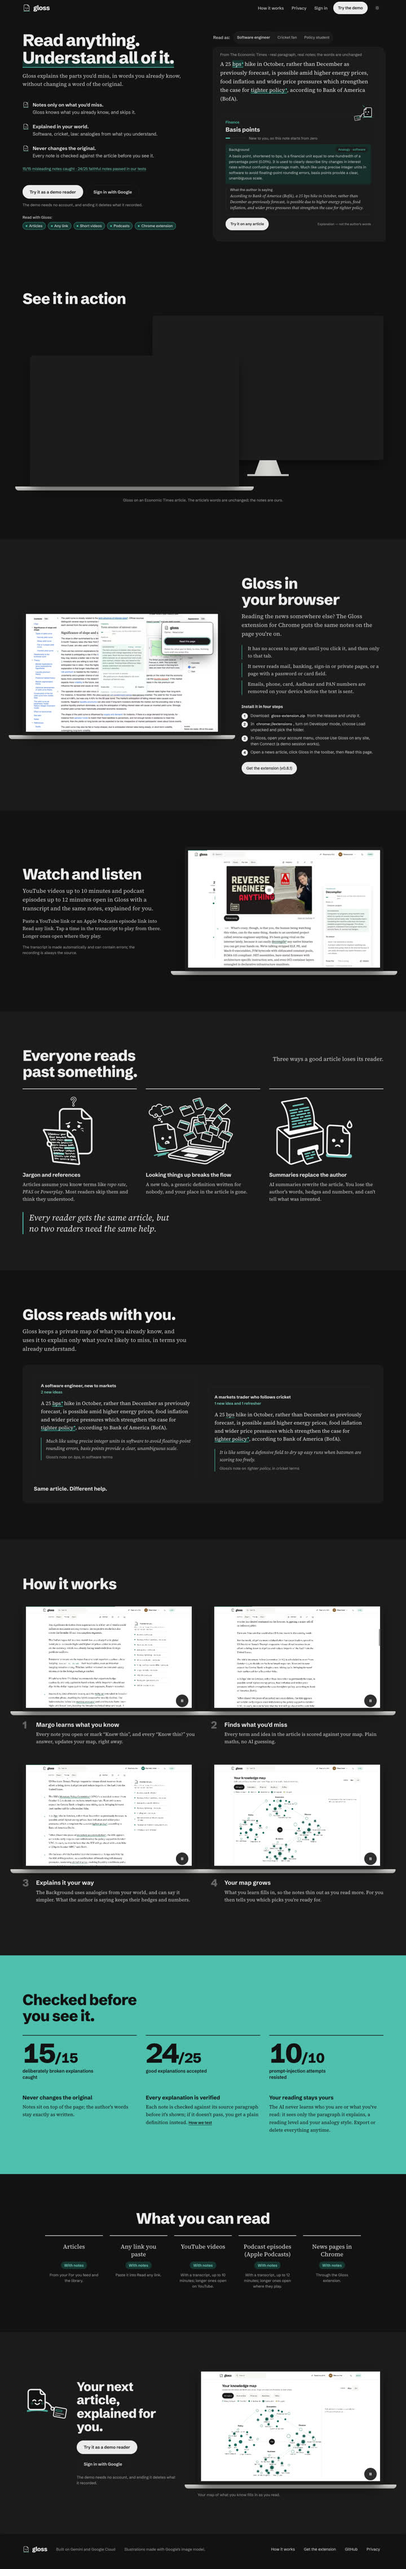
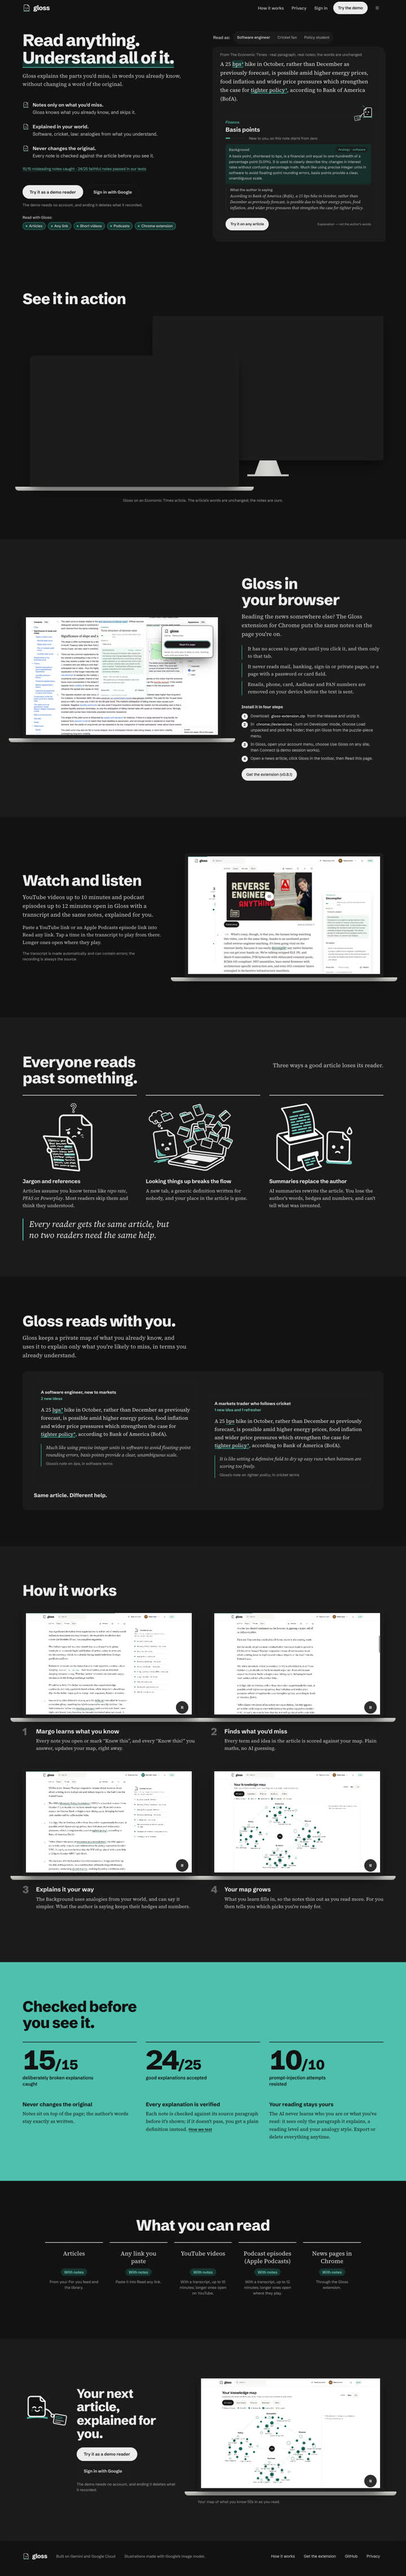
landing refresh: review round 1 fixes
STATUS §5 bundle and new risks, §7 capture cost, §9 README line; install step pins the
extension; popup overlay hidden below 768; dead branch removed. Harness re-run: all pass.

diff --git a/apps/web/src/landing/Extension.tsx b/apps/web/src/landing/Extension.tsx
@@ -30,7 +30,7 @@ export function GlossInBrowser() {
             Download <code>gloss-extension.zip</code> from the release and unzip it.
           </li>
           <li>
-            In <code>chrome://extensions</code>, turn on Developer mode, choose Load unpacked and pick the folder.
+            In <code>chrome://extensions</code>, turn on Developer mode, choose Load unpacked and pick the folder; then pin Gloss from the puzzle-piece menu.
           </li>
           <li>In Gloss, open your account menu, choose Use Gloss on any site, then Connect (a demo session works).</li>
           <li>Open a news article, click Gloss in the toolbar, then Read this page.</li>

diff --git a/apps/web/src/landing/landing.css b/apps/web/src/landing/landing.css
@@ -494,8 +494,10 @@
   min-height: 44px;
   margin-top: var(--s6);
 }
-/* The popup drops from the window's top right, as it does from Chrome's toolbar. */
+/* The popup drops from the window's top right, as it does from Chrome's toolbar; below 768 it
+   would be too small to read, so only the window shows there. */
 .lp-ext__popup {
+  display: none;
   position: absolute;
   z-index: 1;
   top: 9%;
@@ -640,6 +642,9 @@
 }
 
 @media (min-width: 768px) {
+  .lp-ext__popup {
+    display: block;
+  }
   .lp-problem__list {
     grid-template-columns: repeat(3, minmax(0, 1fr));
     gap: var(--s8);

diff --git a/apps/web/src/pages/LandingPage.tsx b/apps/web/src/pages/LandingPage.tsx
@@ -353,9 +353,7 @@ function Formats() {
         {FORMATS.map((f) => (
           <li key={f.what} className="lp-formats__item">
             <span className="lp-formats__what">{f.what}</span>
-            <span className={`lp-formats__how${f.notes ? " lp-formats__how--notes" : ""}`}>
-              {f.notes ? "With notes" : "No notes"}
-            </span>
+            <span className="lp-formats__how lp-formats__how--notes">With notes</span>
             <span className="lp-formats__detail">{f.detail}</span>
           </li>
         ))}

diff --git a/apps/web/src/landing/formatsFull.ts b/apps/web/src/landing/formatsFull.ts
@@ -3,6 +3,7 @@
  * copy quotes. Since decision 54 short videos and podcasts open in Gloss with notes; longer ones
  * open where they play. The caps equal production's MEDIA_MAX_VIDEO_S / MEDIA_MAX_AUDIO_S (a
  * vitest reads `apps/api/deploy.env.yaml`). The hero's chips are `formats.ts`, kept in step.
+ * Every entry gets notes (a vitest checks), so the list shows "With notes" on each.
  */
 export const VIDEO_CAP_MIN = 10;
 export const PODCAST_CAP_MIN = 12;

diff --git a/docs/STATUS.md b/docs/STATUS.md
@@ -290,7 +290,10 @@ and `select_corpus()` now also drops `user_ingested` docs even if a URL is liste
 | Low | The English-only filter checks script, not language: a Hinglish title in Latin script passes ("Health Insurance Claim Ka 10% Ab Aapko Dena Hoga?") |
 | Low | Learning-goal resolution takes 8–19 s on the harness (embedding + link_confirm); the form says it is looking the idea up |
 | Low | `rec_shown` relies on IntersectionObserver, which browsers pause in background tabs (seen in automated testing; real readers have the tab in front) |
-| Low | Web main bundle **148.43 KB** gzip after Wide layout (budget 150 KB; 1.6 KB left); For you, Saved, Profile, the week panel (1.68 KB) and the reading spine (1.05 KB) are lazy chunks; the Cytoscape + dagre chunk is gone (the map is SVG) |
+| Low | Web main bundle **149.88 KB** gzip after the landing refresh (budget 150 KB; **≈ 0.12 KB left**: decision 62's link and extension-base changes must measure main against the gate, and any further reader change must be lazy); For you, Saved, Profile, the week panel (1.68 KB) and the reading spine (1.05 KB) are lazy chunks; the Cytoscape + dagre chunk is gone (the map is SVG) |
+| Medium | Landing refresh (decision 61): "Get the extension (v0.8.1)" and the footer link go to GitHub Releases, which 404 for everyone but Sourabh until the repo is public (Oct 17, after gitleaks), like the other GitHub links. Next: Make the repo public on Oct 17; check both links live afterwards |
+| Medium | The landing pins `releases/tag/extension-v0.8.1` (`landing/links.ts`, the render test, the button's "v0.8.1", DESIGN §20.2). If decision 62 ships extension 0.8.2 (new web base), all four must move, or the landing advertises a build with the old address. Next: Part of the decision 62 plan |
+| Low | The landing's feed still is not re-shot after the Oct 16 persona re-seed (plan R6), so its readiness lines may differ from the live demo feed. Next: Accepted (freeze); re-shoot only if a line becomes wrong |
 | Low | Emulator only: a brand-new reader's first page fires several requests at once and each runs the `ensure_user` create-if-missing transaction; with four at once the Firestore emulator made them queue (≈ 20 s, "Failed to commit transaction in 5 attempts" in the log, all still 200). The library now asks for the week map after its first answer, which restored the earlier behaviour; a per-uid single-flight in `app/auth.py` would remove the race for every page (M9 candidate). No production occurrence seen |
 | Low | The weekly trend is per uid, so a demo session's trend mixes the personas it read as (the page says "this demo session") |
 | Low | Calibration picks the most frequent concepts per domain, which occasionally surfaces a term like "Expiry days"; fine for a quick check, revisit after the hackathon |
@@ -455,6 +458,10 @@ plus a handful of explanations (≈ $0.01 in all).
 `landing-art-v1`, 5 images, **$0.34** (Sourabh approved up to 6 images / $0.60); two 429s,
 unbilled. Details in DESIGN §20.1.
 
+**Landing refresh captures (2026-10-14, decision 61):** 1 explanation generated in production
+(the newcomer's "Term structure of interest rates" note on Wikipedia's Yield curve, ≈ $0.005);
+3 demo readers, all deleted; 0 searches (STATUS §30).
+
 **M9 part 1 (2026-10-14):** emulator harness, real Vertex: $0.0072 (service-level run) and $0.0138 (through the routes), emulator ledgers only. Expected live: ≤ $0.05 for Sourabh's four extension pages (`growth_backlog --dry-run`: ≤ 17 slots).
 **M9 part 2 (2026-10-14):** real Vertex, production spend ledger: merge replay $0.0032 (61 pairs) and prereq replay $0.0198; emulator ledger: synonym harness $0.0124. About **$0.035** in all.
 
@@ -539,7 +546,7 @@ BUILD_PLAN.md has the prompts. M6, M7 and M2.2 are merged and live.
 | Oct 15 | **M9.** Part 1 merged #34 and live (§26). Part 2 merged #35 and live (API 00029, §27); Sourabh audits the 30 precision verdicts (`apps/api/evals/heldout_report.md`, row 12 Pregabalin especially). Part 3 (ops evals, hardening, dashboard) built Oct 14 (§28): milestone-reviewer, PR, merge (docs and scripts only, no deploy) |
 | Oct 15 | **Readiness on For you** (decision 60): **done Oct 14** (merged #37, live, §29). **Landing refresh** (decision 61, plan `docs/plans/landing-refresh.md`): **built Oct 14**, all checks pass (§30); review, PR and web deploy next. **Decision 62** (a "gloss" web address): plan and build Oct 15. **Checkpoint: not merged by end of Oct 15 IST → ask Sourabh what to cut (decision 27)**; nothing slips into Oct 16 seeding |
 | Done Oct 12 | `m8-resume` fast-forwarded to main (it was an ancestor); the wip 2f037a1 carried over by hand (§22) |
-| Oct 16 | Code freeze; demo seeding (re-seed persona templates, pre-ingest demo articles, **re-run `seed_demo_feed`** so the demo feed isn't dated "10 Oct" during judging, **`warm_demo --shifts`** after a dry run: ≤ 48 ±1-band Backgrounds, ≈ $0.20, so "Say it simpler" is warm in the video), README refresh and new screenshots, video, deck. **From readiness (decision 60):** after the persona re-seed, re-run `scripts/readiness_mix.py` (stop rule: one level on ≥ 80% of the newcomer's rows → tell Sourabh, no retuning), and read the newcomer's and trader's stretch lines before the video (one now says "read up on Economic stocks and flows" for a stock-market video, from "stocks" linked to Stock variable): add a plainly wrong edge to the known-wrong prerequisites or keep that row out of the shot. **From M9 part 2:** don't use the BBC PFAS article (`cq8r6nzp4230o`) as the demo article (its stored concepts keep the Forever chemicals / PFAS duplicate); the deck carries the frozen-graph line (64% / 13% vs 89% / 66%) and the three precision numbers (87%, 97%, 90%). **From M9 part 3:** the deck labels 87 / 97 / 90 as judged by the build agent (and whether Sourabh's audit is done); the README already carries the measured request p95 (478 ms, Oct 8–14), cost and spend from `evals/ops_report.md`; refresh them if the report is re-run |
+| Oct 16 | Code freeze; demo seeding (re-seed persona templates, pre-ingest demo articles, **re-run `seed_demo_feed`** so the demo feed isn't dated "10 Oct" during judging, **`warm_demo --shifts`** after a dry run: ≤ 48 ±1-band Backgrounds, ≈ $0.20, so "Say it simpler" is warm in the video), README refresh and new screenshots (**fix README's "Videos and podcasts appear today as recommendations only; annotating them is outside the hackathon scope"**, which the landing now contradicts, and **bring the README's extension install steps in line with the landing's**), video, deck. **From readiness (decision 60):** after the persona re-seed, re-run `scripts/readiness_mix.py` (stop rule: one level on ≥ 80% of the newcomer's rows → tell Sourabh, no retuning), and read the newcomer's and trader's stretch lines before the video (one now says "read up on Economic stocks and flows" for a stock-market video, from "stocks" linked to Stock variable): add a plainly wrong edge to the known-wrong prerequisites or keep that row out of the shot. **From M9 part 2:** don't use the BBC PFAS article (`cq8r6nzp4230o`) as the demo article (its stored concepts keep the Forever chemicals / PFAS duplicate); the deck carries the frozen-graph line (64% / 13% vs 89% / 66%) and the three precision numbers (87%, 97%, 90%). **From M9 part 3:** the deck labels 87 / 97 / 90 as judged by the build agent (and whether Sourabh's audit is done); the README already carries the measured request p95 (478 ms, Oct 8–14), cost and spend from `evals/ops_report.md`; refresh them if the report is re-run |
 | **Oct 17** | **Submit** (deadline Oct 18): run a gitleaks scan over the full history, then make the GitHub repo public (decision 44; the landing links to it) |
 
 **Video line:** sign in as a demo persona → library → open an article → hover and open notes →
@@ -1209,4 +1216,5 @@ Plan `docs/plans/landing-refresh.md` (plan-reviewer REVISE 8 → APPROVE). Branc
 | Harness `tools/shots/landing_refresh.py` (local previews, before = `main`) | axe **0 at every impact level** and horizontal scroll **0** at 320, 390, 768, 1024, 1440, 1920, light and dark, every still loaded; headings in order; every image described; the new stills not fetched before scroll; first view at 1440×900 changed only inside the chip row, at 390×844 not at all. `docs/evidence/landing-refresh/` |
 | Harness `tools/shots/landing.py` (decisions 46/47) | All checks pass (first views incl. 1280×800, section gaps, device stills, media budgets with the new stills, fonts), axe 0 everywhere, keyboard pass, 0 network after load; first view at 390 = 291 KB, no landing media before scroll |
 | Mobile LCP (Lighthouse 12.8.2 mobile × 3, local preview) | Before **2,552 ms**, after **2,552 ms** (0% change; gate: not worse by > 5%); perf 95, CLS 0 both |
-| Not done yet | milestone-reviewer, PR, CI, merge, `make deploy-web` (Sourabh's yes), live check at 1440 and 390 |
+| Review round 1 (milestone-reviewer **FIX**, 4 doc items) | Applied: §5 bundle line (149.88 KB, ≈ 0.12 KB left), §5 entries for the private-repo 404, the pinned 0.8.1 vs decision 62, the feed still after the re-seed; §7 capture cost; §9 Oct 16 names the README line to fix and the install steps. Non-blocking taken: install step 2 adds "pin Gloss from the puzzle-piece menu"; the popup overlay hidden below 768 (unreadable there, and no longer downloaded on phones); the dead "No notes" branch removed. `landing_refresh.py` re-run: all pass. Open for Sourabh: the feed still's second row shows the video's sponsor line ("…code ECONOMICS…Surfshark…") |
+| Not done yet | review round 2, PR, CI, merge, `make deploy-web` (Sourabh's yes), live check at 1440 and 390 |
